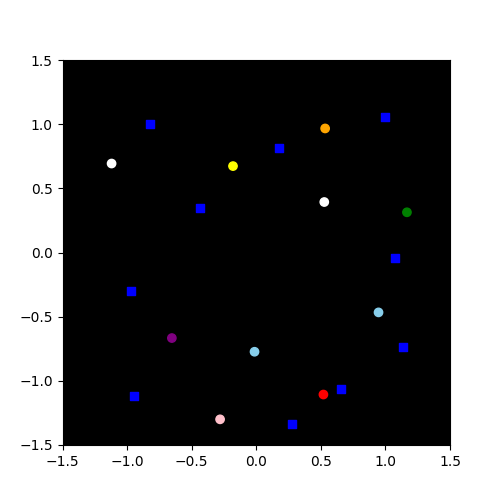
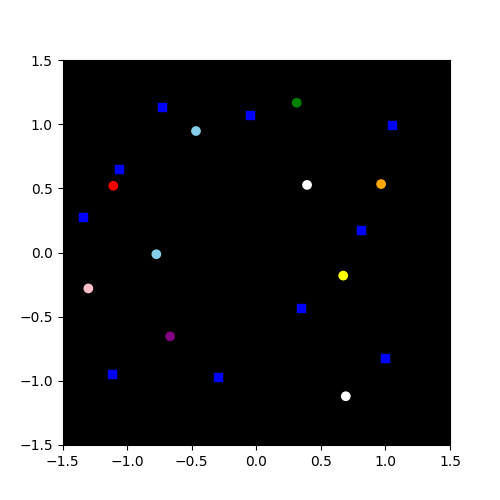
update true map

diff --git a/Week08-09/auto_fruit_search.py b/Week08-09/auto_fruit_search.py
@@ -125,9 +125,9 @@ def drive_to_point(waypoint, robot_pose):
     lin_vel = 1/12               # m/s -> 10.48
     ang_vel = 2*np.pi / 6         # rad/s
     
-    robot_pose_x = robot_pose[0][0]
-    robot_pose_y = robot_pose[1][0]
-    robot_pose_theta = robot_pose[2][0]
+    robot_pose_x = robot_pose[0]
+    robot_pose_y = robot_pose[1]
+    robot_pose_theta = robot_pose[2]
     
     # turn towards the waypoint
     x_diff = waypoint[0] - robot_pose_x
@@ -496,12 +496,12 @@ def add_waypoint_from_click(mouse_pos: tuple):
     # print(x,y)
 
     # estimate the robot's pose
-    robot_pose = operate.ekf.get_state_vector()[0:3]
+    robot_pose = operate.ekf.get_state_vector()[:3,0]
 
     # robot drives to the waypoint
     waypoint = [x,y]
     drive_to_point(waypoint,robot_pose)
-    robot_pose = operate.ekf.get_state_vector()[0:3]
+    robot_pose = operate.ekf.get_state_vector()[:3,0]
     
     print("Finished driving to waypoint: {}; New robot pose: {}".format(waypoint, robot_pose))
 
@@ -510,11 +510,11 @@ def add_waypoint_from_click(mouse_pos: tuple):
     
 def add_waypoint_from_rrt(waypoint):
     # estimate the robot's pose
-    robot_pose = operate.ekf.get_state_vector()[0:3]
+    robot_pose = operate.ekf.get_state_vector()[:3,0]
 
     # robot drives to the waypoint
     drive_to_point(waypoint,robot_pose)
-    robot_pose = operate.ekf.get_state_vector()[0:3]
+    robot_pose = operate.ekf.get_state_vector()[:3,0]
     
     print("Finished driving to waypoint: {}; New robot pose: {}".format(waypoint, robot_pose))
 
@@ -635,6 +635,8 @@ if __name__ == "__main__":
 
     waypoint = [0.0,0.0]
     robot_pose = [0.0,0.0,0.0]
+
+    operate.ekf_on = True
 
     #RRT stuff
     #=================

diff --git a/Week08-09/txt_to_image.py b/Week08-09/txt_to_image.py
@@ -63,6 +63,6 @@ def visualise_map(map):
     ax.set_xlim([-1.5, 1.5])
     ax.set_ylim([-1.5, 1.5])
     ax.set_facecolor('xkcd:black')
-    ax.scatter(ReferenceArUcos_x, ReferenceArUcos_y, color = "blue", marker = "s")
-    ax.scatter(ReferenceObjects_x, ReferenceObjects_y, c = Objects_colours, marker = "o")
+    ax.scatter(ReferenceArUcos_y, ReferenceArUcos_x, color = "blue", marker = "s")
+    ax.scatter(ReferenceObjects_y, ReferenceObjects_x, c = Objects_colours, marker = "o")
     fig.savefig("map_image.png")
